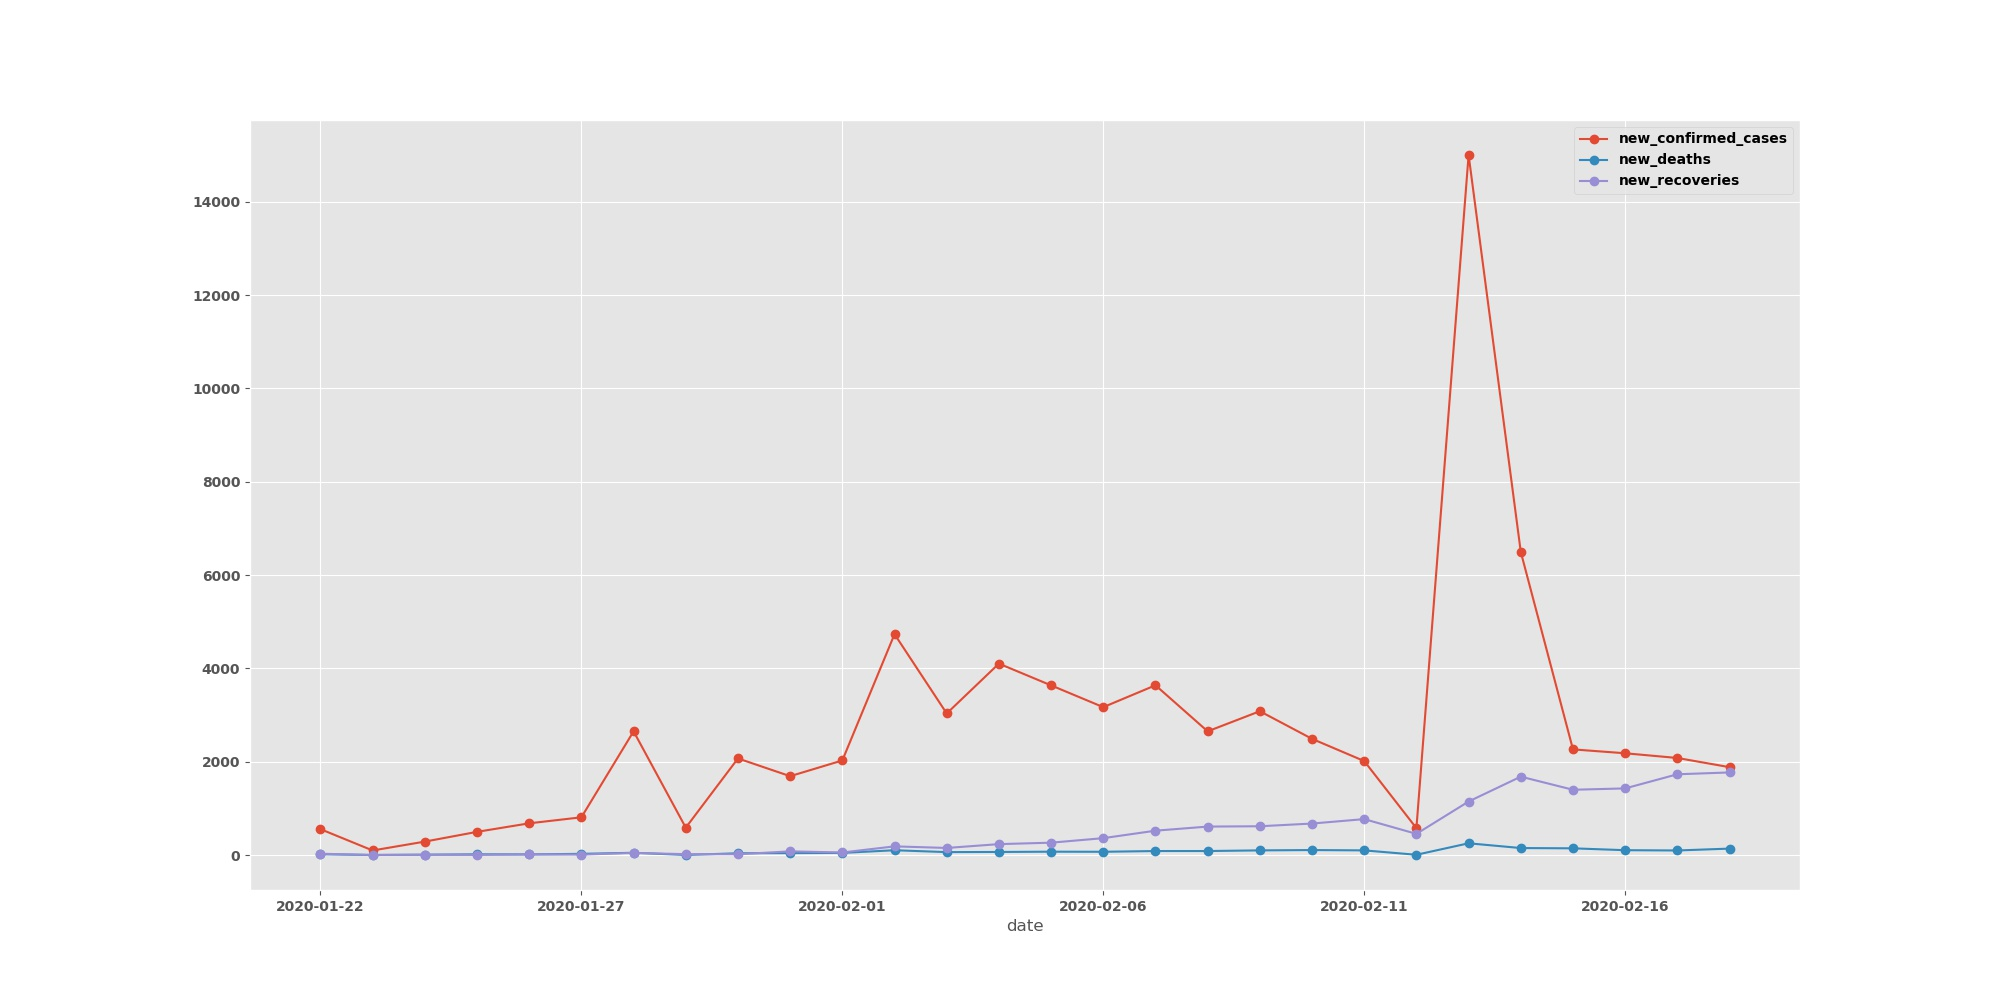
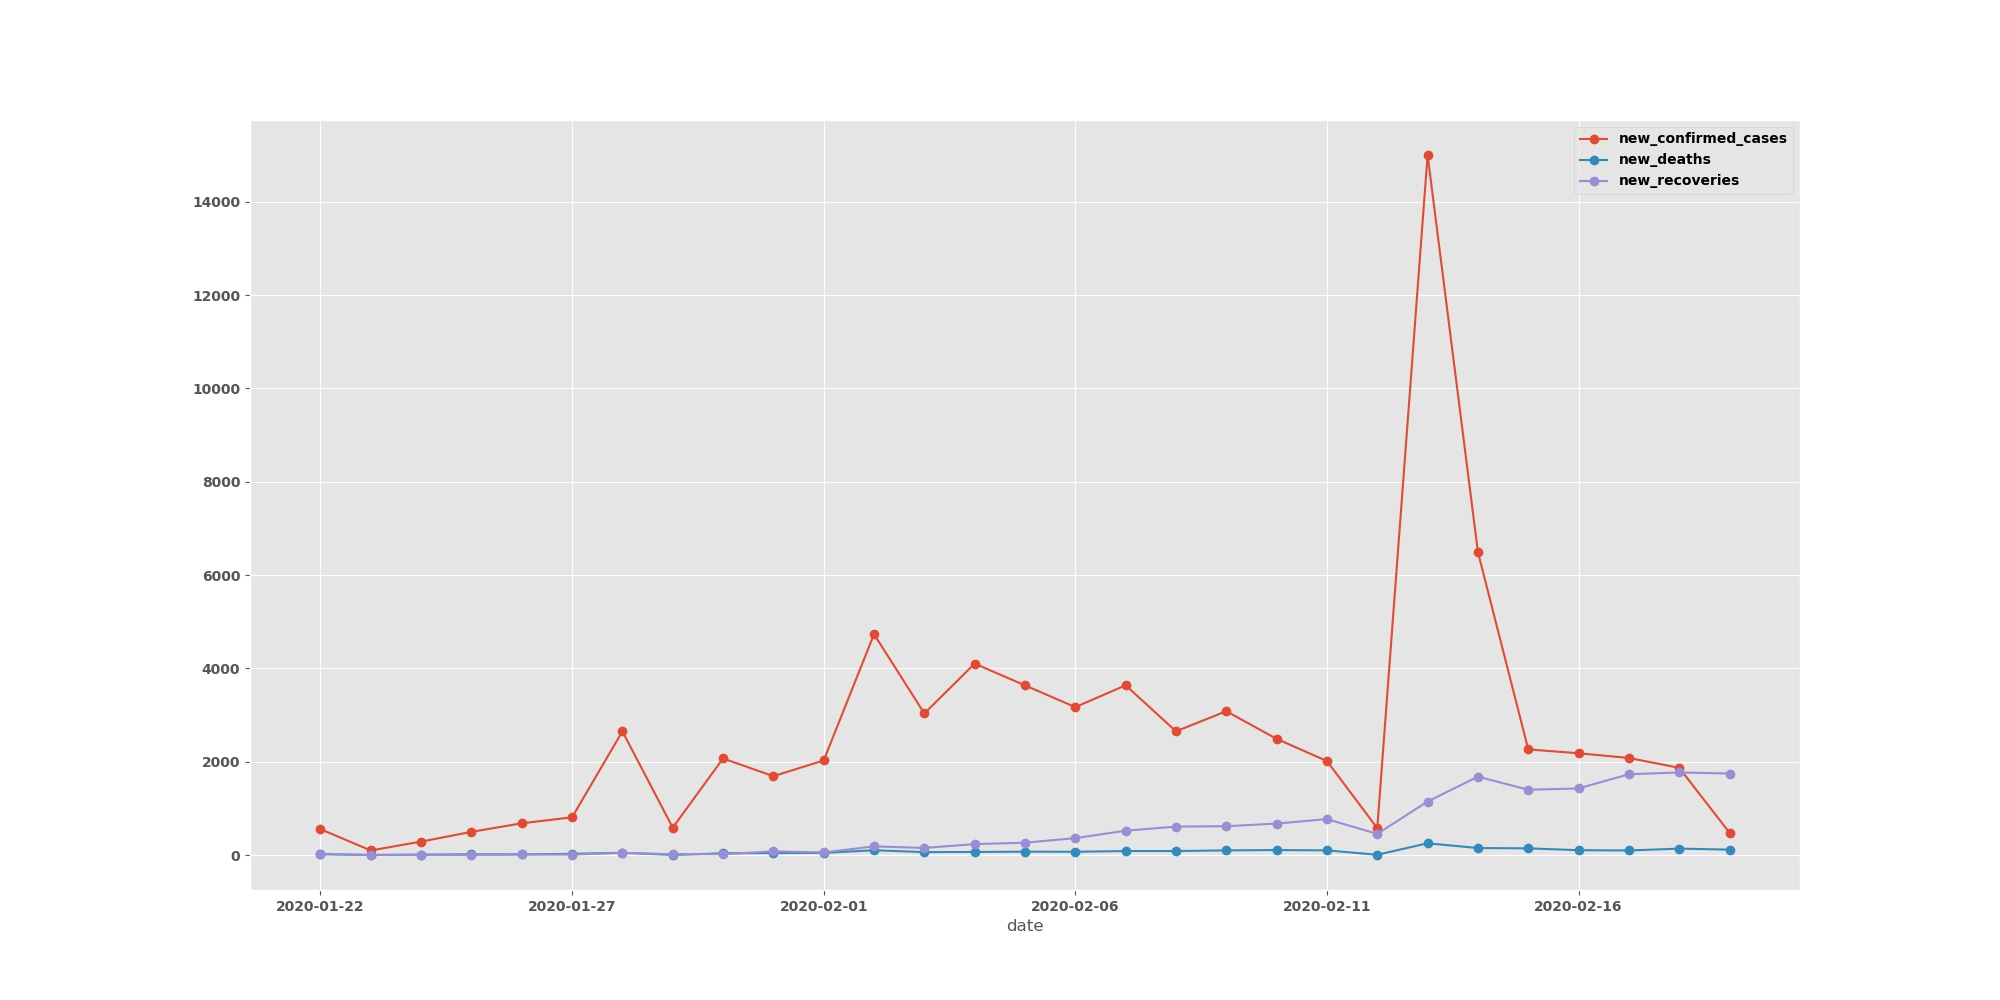
ADD - report for 20th of feb

diff --git a/README.md b/README.md
@@ -25,7 +25,7 @@ This plots will be updated <u>daily</u> to visualize the trend in accumalitive s
 - **<i>Deaths</i>**
 - **<i>Recoveries.</i>**
 
-Last updated: `2020-02-19`
+Last updated: `2020-02-20`
 
 **Trend Line**
 
